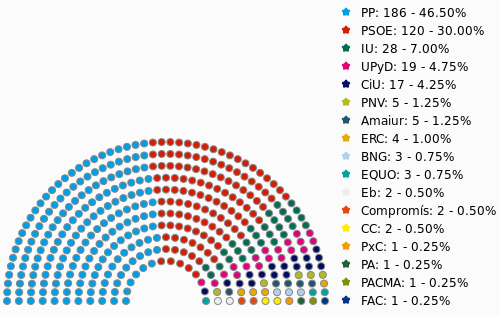
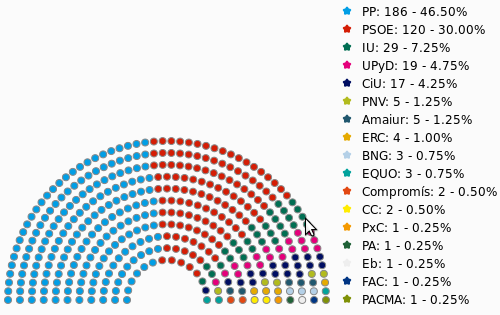
Corrijo parlamento 5 debido al error encontrado en num votos de PACMA

Changed region(s): [[0.0, 0.3429, 1.0, 0.9714], [0.69, 0.0, 0.99, 0.3429]]

diff --git a/web/js/le2011.js b/web/js/le2011.js
@@ -1339,6 +1339,8 @@ $(document).ready(function(){
             this.parliament3 = this.paper.image("imgs/parliament3-2011.png", 450, 1130, 500, 280);
             this.parliament4 = this.paper.image("imgs/parliament4-2011.png", 450, 1605, 500, 315);
             this.parliament5 = this.paper.image("imgs/parliament5-2011.png", 450, 2210, 500, 315);
+            //this.parliament5 = this.paper.g.parliament(620, 2500, 180, 40, this.parvalues5, {}, 1.2125, 3.5);
+
 
             this.advance = function(){ return AppRouter.navigate("!reformaelectoral4", true);};
             this.goback = function(){ return AppRouter.navigate("!circunscripcionunica", true);};
